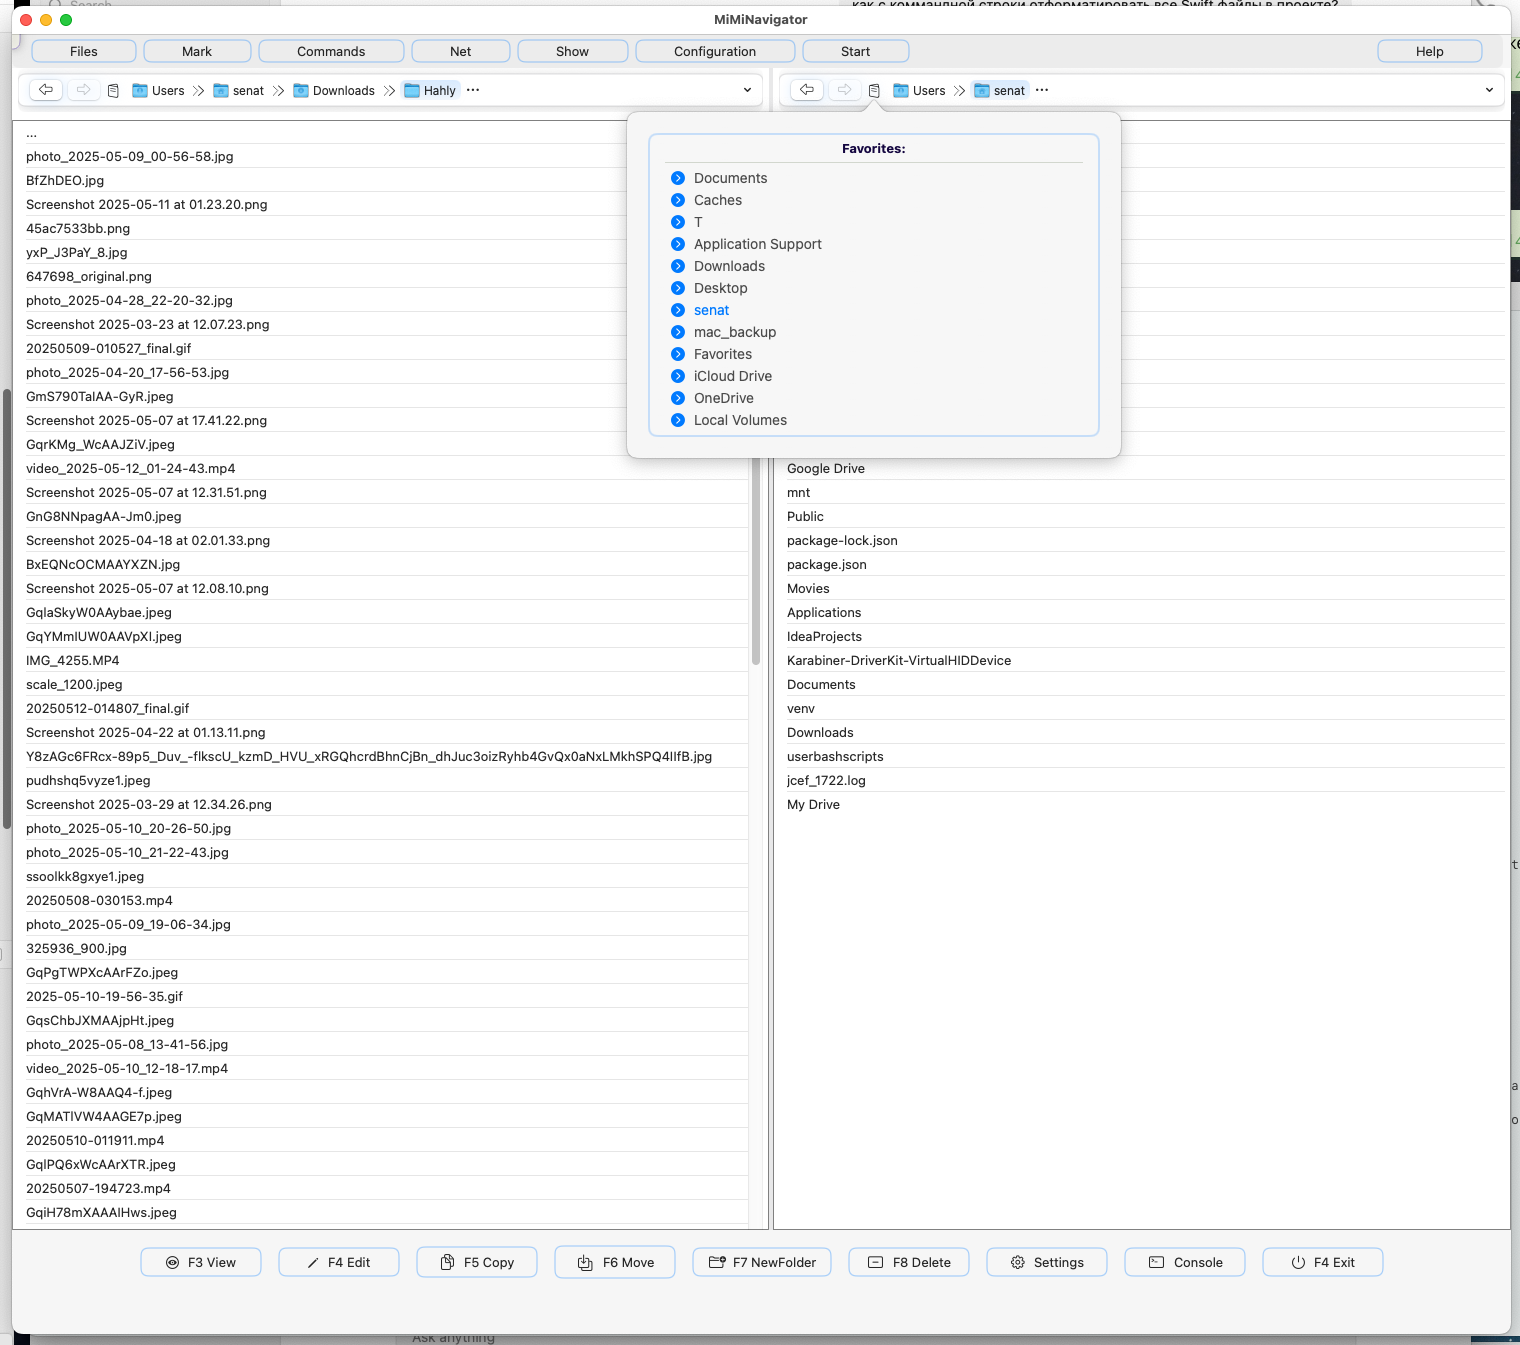
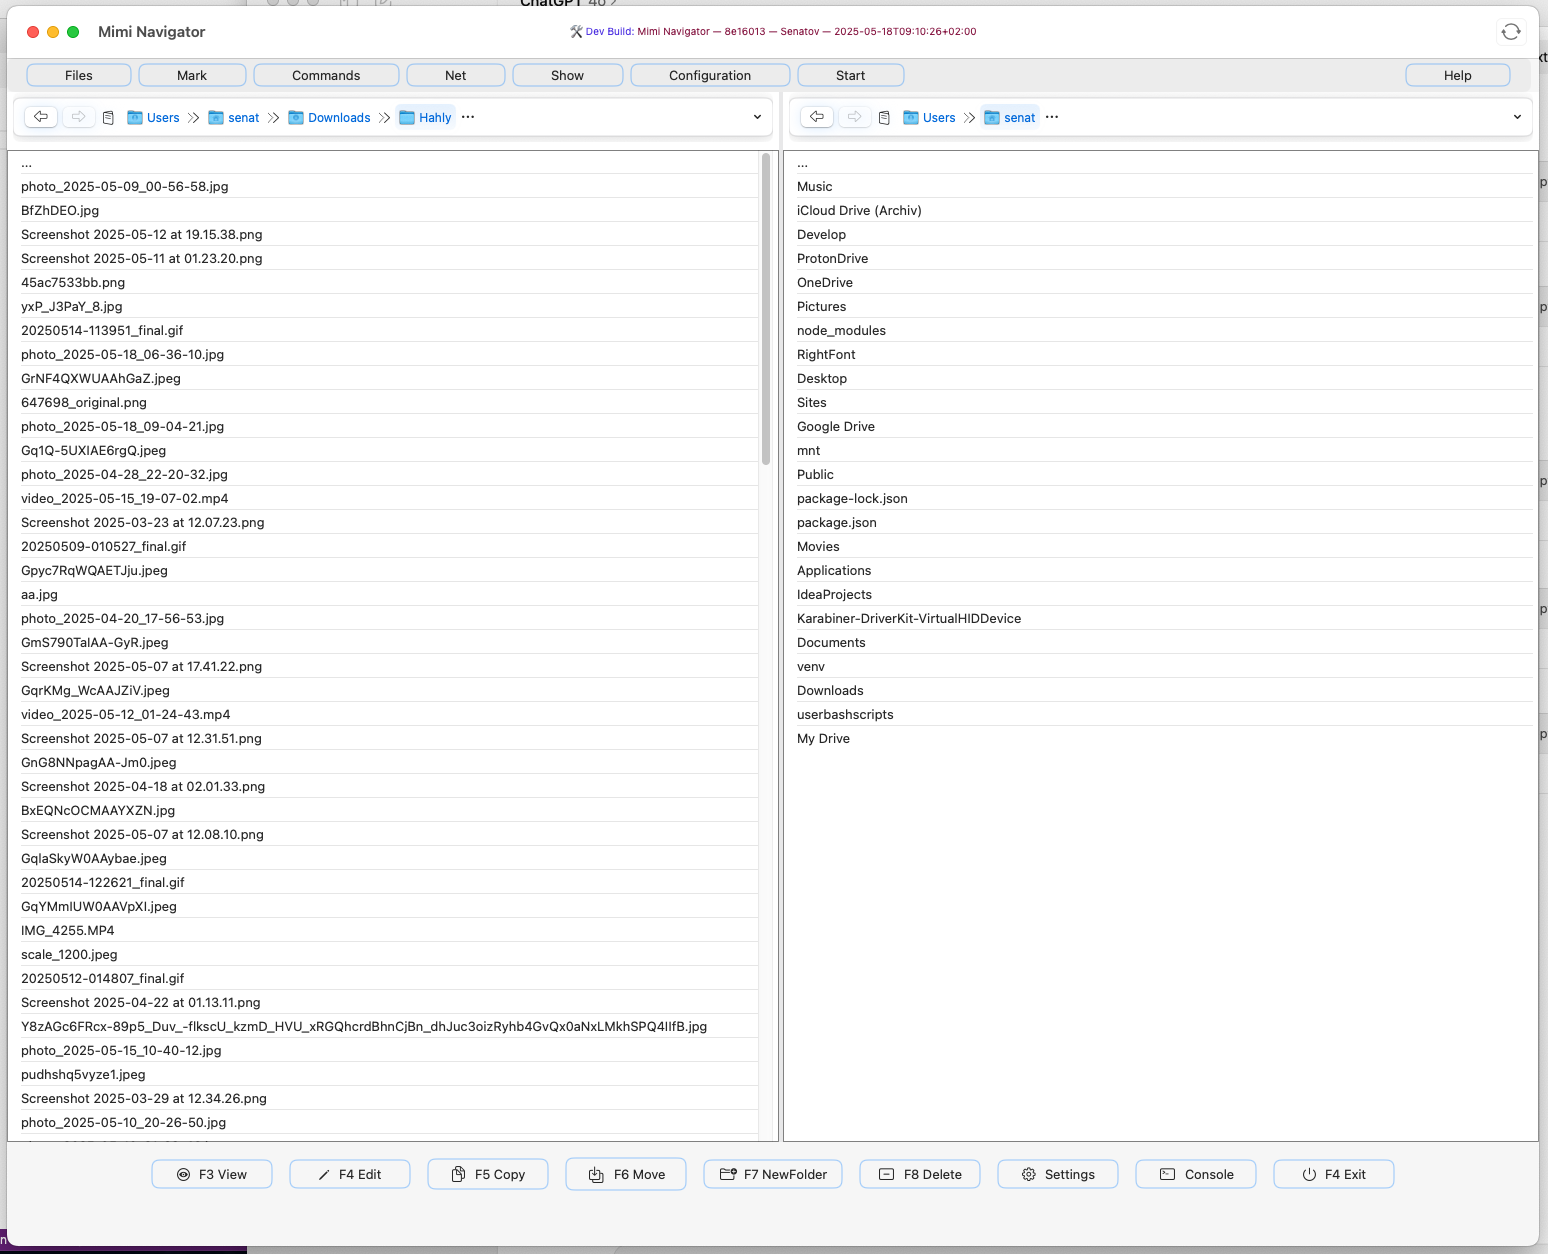
title w. version

diff --git a/MiMiNavigator/App/MiMiNavigatorApp.swift b/MiMiNavigator/App/MiMiNavigatorApp.swift
@@ -15,6 +15,19 @@ let log = SwiftyBeaver.self
 @main
 struct MiMiNavigatorApp: App {
 
+    let devMark: Text = {
+        let versionPath = Bundle.main.path(forResource: ".version", ofType: nil)
+        let content: String
+        if let versionPath, let versionString = try? String(contentsOfFile: versionPath, encoding: .utf8) {
+            content = versionString.trimmingCharacters(in: .whitespacesAndNewlines)
+            log.debug("Loaded version from .version file: \(content)")
+        } else {
+            content = "Mimi Navigator — Version unavailable"
+            log.error("Failed to load .version file.")
+        }
+        return Text(content)
+    }()
+
     // MARK: -
     init() {
         LogMan.initializeLogging()
@@ -39,7 +52,24 @@ struct MiMiNavigatorApp: App {
         WindowGroup {
             VStack {
                 TotalCommanderResizableView()
+                    .navigationTitle("Mimi Navigator")
                 ConsoleCurrPath()
+            }
+            .toolbar {
+                ToolbarItem(placement: .automatic) {
+                    Button(action: {
+                        log.debug("Refresh button clicked")
+                    }) {
+                        Image(systemName: "arrow.triangle.2.circlepath")
+                    }
+                }
+                ToolbarItem(placement: .status) {
+                    Text("🛠 Dev Build: ")
+                        .font(.caption)
+                        .foregroundColor(Color(#colorLiteral(red: 0.2196078449, green: 0.007843137719, blue: 0.8549019694, alpha: 1)))
+                        + devMark.foregroundColor(Color(#colorLiteral(red: 0.4392156899, green: 0.01176470611, blue: 0.1921568662, alpha: 1)))
+                        .font(.caption)
+                }
             }
         }
         .modelContainer(sharedModelContainer)
